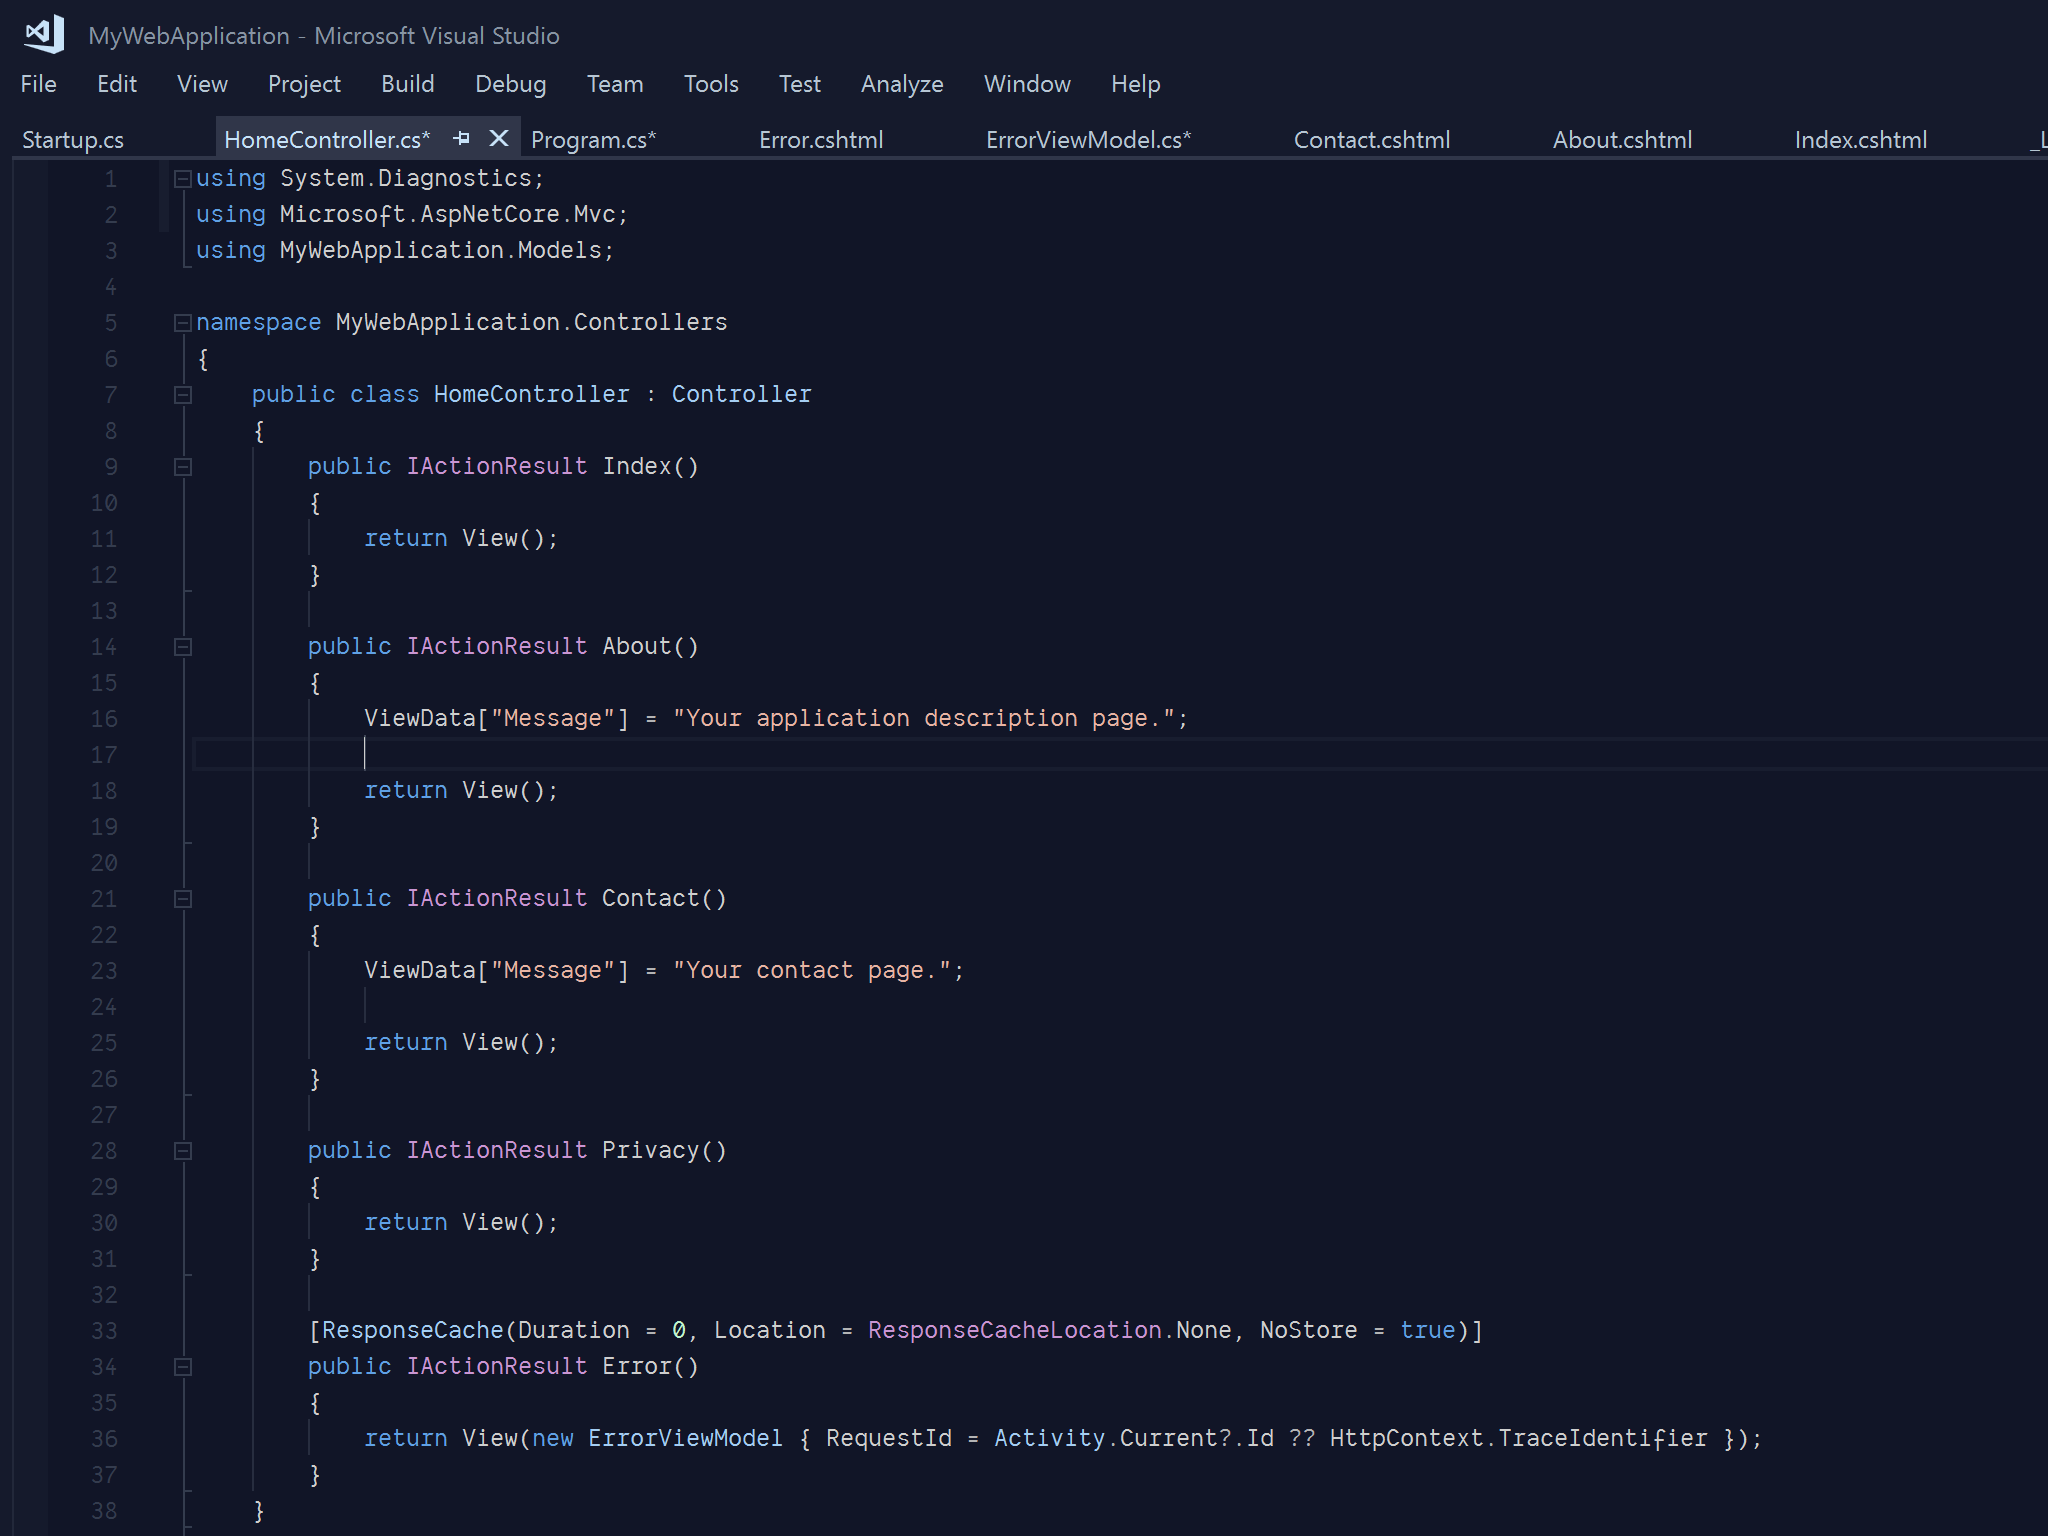
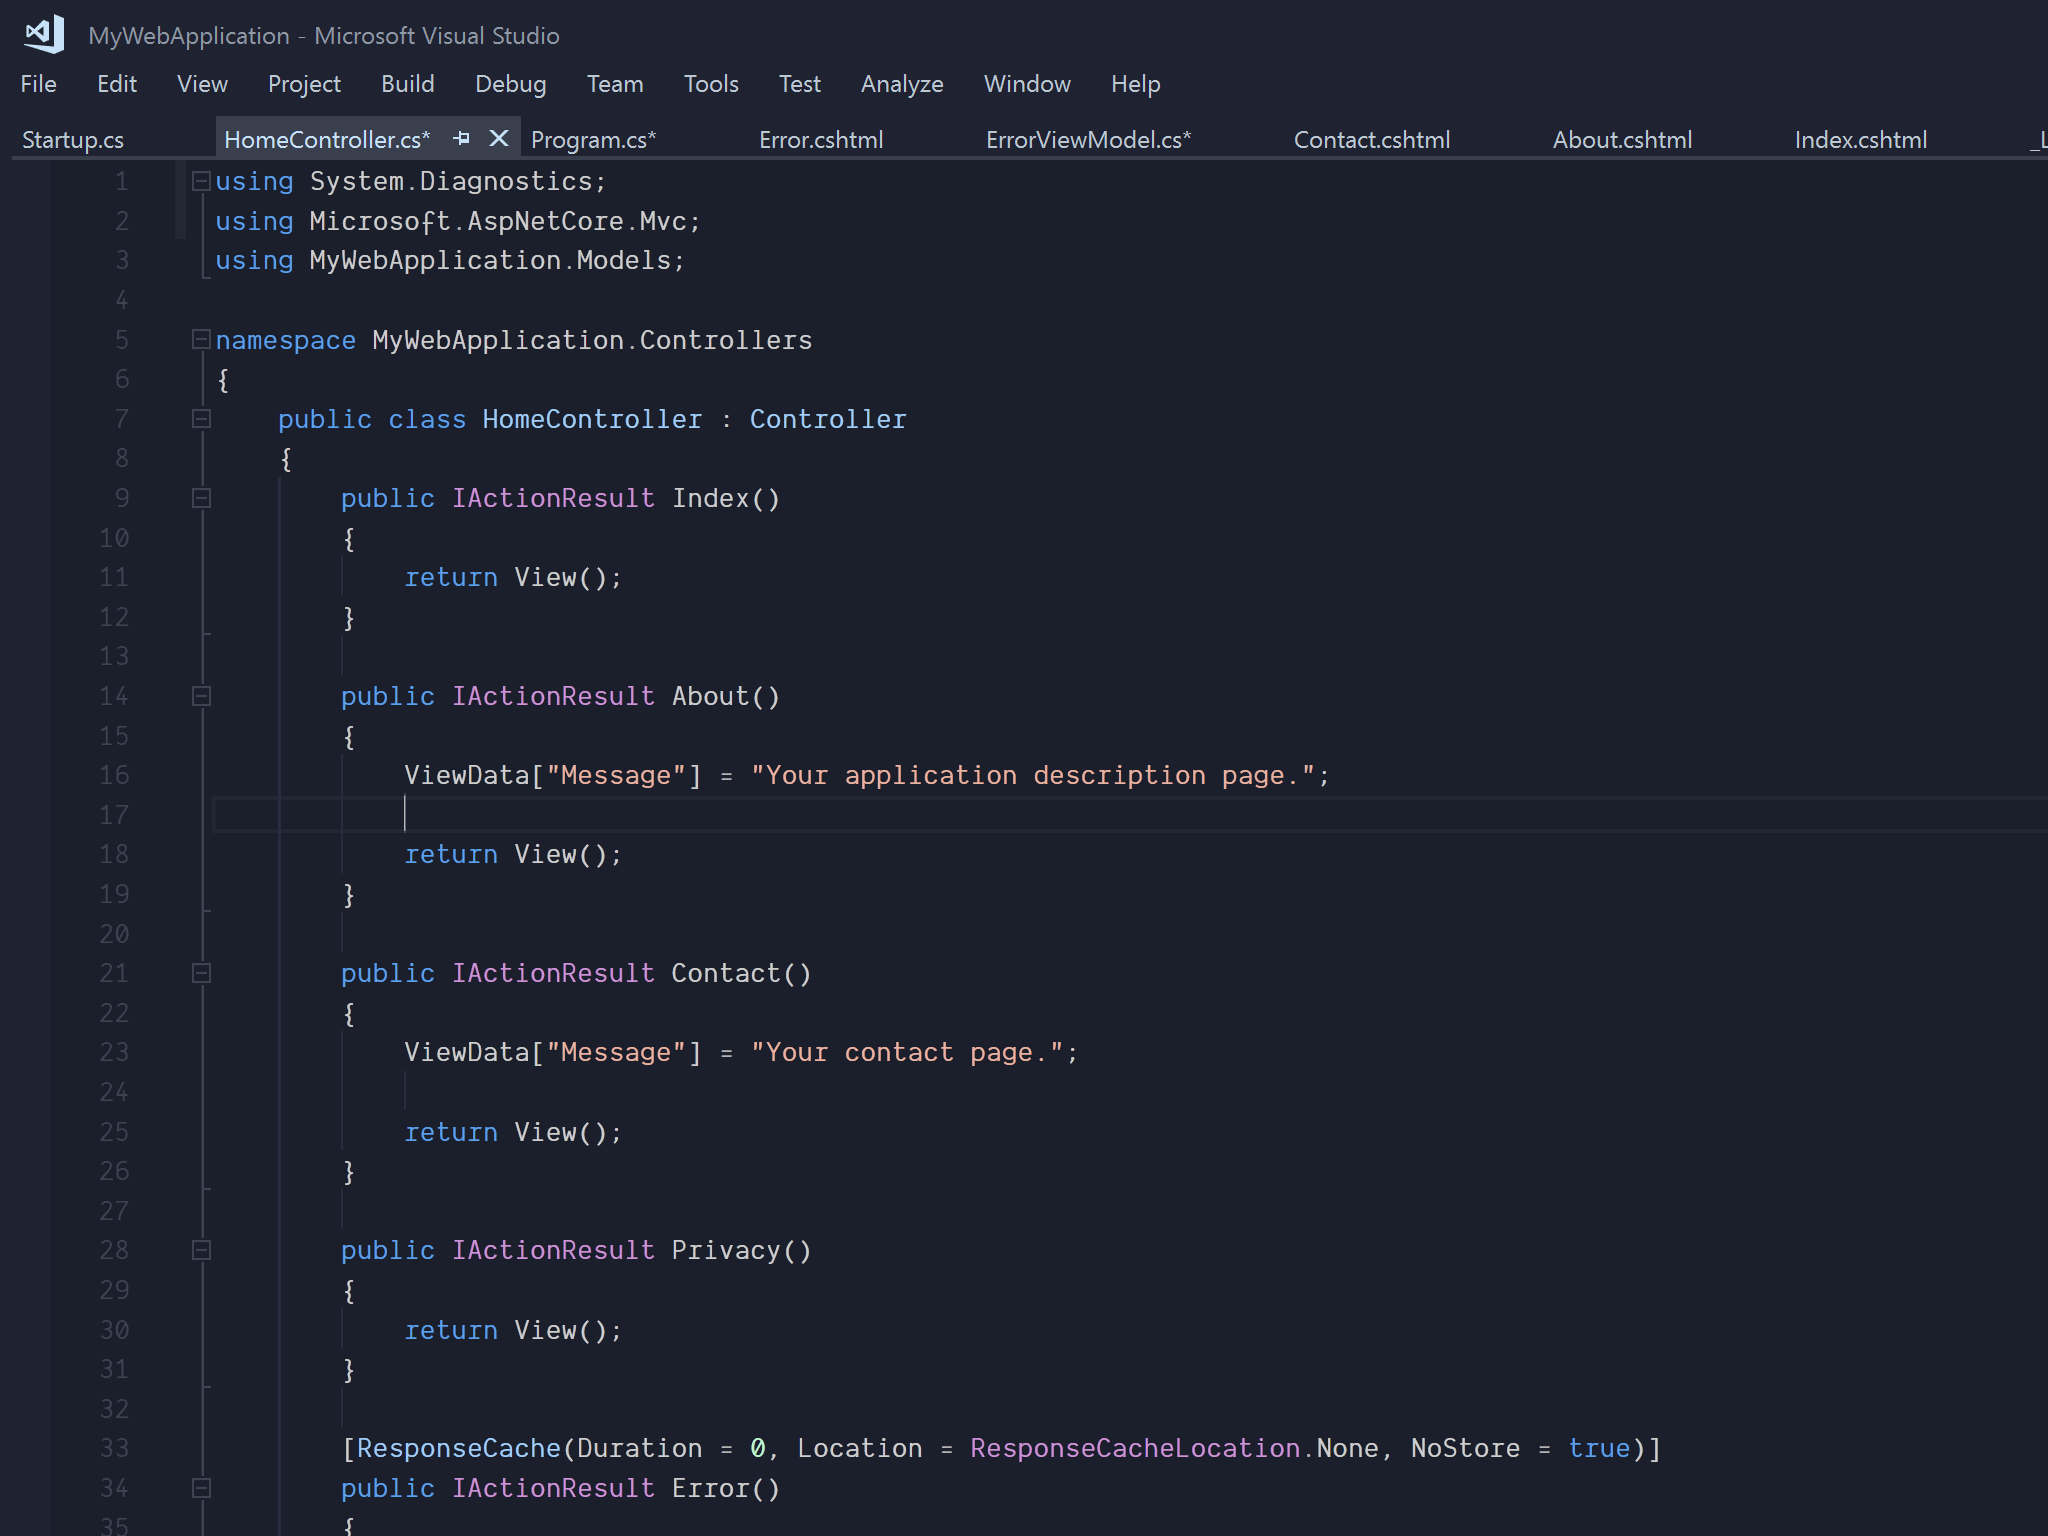
Refine colors

diff --git a/src/colors.js b/src/colors.js
@@ -9,9 +9,9 @@ const defaultColors = {
   ],
   blueGrays: [
     // Custom
-    "#111527",
+    "#1b1e2b",
     // Material Blue 50
-    desaturate("#e3f2fd", 0.125)
+    desaturate("#e3f2fd", 0.0625)
   ],
   blues: [
     // Custom
@@ -34,17 +34,17 @@ const defaultColors = {
   amberLighter: desaturate("#ffecb3", 0.875)
 };
 
-function desaturate(color, amount = 0.25) {
+function desaturate(color, amount = 0.1875) {
   return chroma(color)
     .desaturate(amount)
     .hex();
 }
 
-function generateScale(colors) {
+function generateScale(colors, n = 40) {
   return chroma
     .scale(colors)
     .mode("lch")
-    .colors(40);
+    .colors(n);
 }
 
 function generateColorPalette(colors = defaultColors) {
